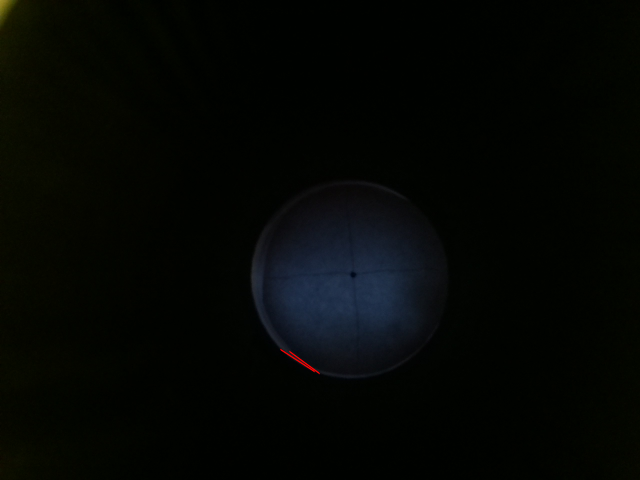
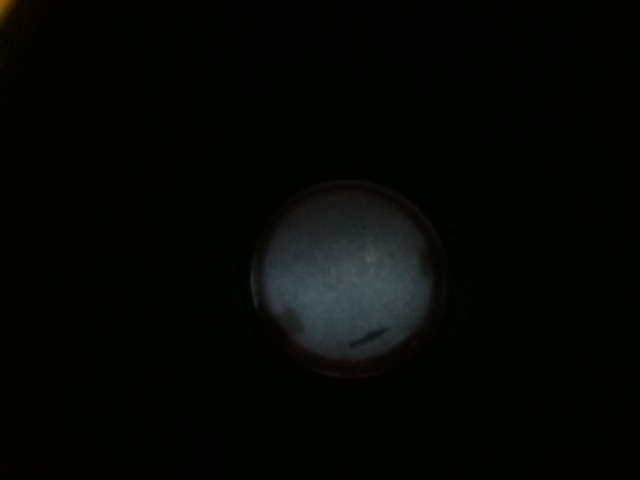
Fixed lighting and took images and reduced the crop size to 85

Changed region(s): [[0.375, 0.5, 0.6875, 0.75], [0.0, 0.0, 0.0312, 0.0625], [0.4688, 0.75, 0.5, 0.7812]]

diff --git a/src/simple_sub_node.cpp b/src/simple_sub_node.cpp
@@ -47,10 +47,18 @@ class ImageConverter {
         // cv::waitKey(1);
 
         cv::Mat img = cv_ptr->image;
-        cv::Mat needle_detect_ = img.clone();
+        cv::Mat roi;   // Matrix to save image
+                       // creating empty mask image
+        cv::Mat mask = cv::Mat::zeros(img.rows, img.cols, CV_8UC1);
+        cv::circle(mask, cv::Point(354, 275), 85, cvScalar(255, 255, 255), -1,
+                   8,
+                   0);           //-1 means filled
+        img.copyTo(roi, mask);   // copy values of img to dst if mask is > 0
+        cv::imshow("roi", roi);
 
+        cv::Mat needle_detect_ = img.clone();
         cv::Mat edge, needle, edge_image;
-        cv::Canny(img, edge, 50, 100, 3);
+        cv::Canny(roi, edge, 50, 140, 3);
         edge.convertTo(edge_image, CV_8U);
 
         std::vector<cv::Vec4i> lines;
@@ -58,11 +66,30 @@ class ImageConverter {
         std::cout << "the number of lines are " << lines.size() << std::endl;
         for (size_t i = 0; i < lines.size(); i++) {
             cv::Vec4i l = lines[i];
-            line(needle_detect_, cv::Point(l[0], l[1]), cv::Point(l[2], l[3]),
-                 cvScalar(0, 0, 255), 1, CV_AA);
+            //	    line(needle_detect_, cv::Point(l[0], l[1]), cv::Point(l[2],
+            // l[3]),
+            //		 cvScalar(0, 0, 255), 1, CV_AA);
+
+            double leng =
+                cv::norm(cv::Point(l[0], l[1]) - cv::Point(l[2], l[3]));
+
+            if (leng < 40 && leng > 30) {
+                line(needle_detect_, cv::Point(l[0], l[1]),
+                     cv::Point(l[2], l[3]), cvScalar(0, 0, 255), 1, CV_AA);
+                std::cout << " length of line number: " << i << " is : " << leng
+                          << std::endl;
+                // line(needle_detect_, cv::Point(l[0], l[1]), cv::Point(l[2],
+                // l[3]),
+                //   cvScalar(255, 255, 255), 2, CV_AA);
+
+                std::cout << "the coordinates of the lines are: "
+                          << cv::Point(l[0], l[1]) << " and "
+                          << cv::Point(l[2], l[3]) << std::endl;
+            };
         }
         cv::imshow("edge", edge);
-        cv::imshow("needle", needle_detect_);
+        // cv::imshow("needle", needle_detect_);
+
         cv::waitKey(1);
     }
 };

diff --git a/NeedleDetection/needle_polygon.cpp b/NeedleDetection/needle_polygon.cpp
@@ -10,15 +10,20 @@ int main() {
     cv::Mat needle_detect_ = img.clone();
 
     cv::Mat roi;   // Matrix to save image
-                   // creating empty mask image
-    cv::Mat mask = cv::Mat::zeros(img.rows, img.cols, CV_8UC1);
-    cv::circle(mask, cv::Point(354, 275), 100, cvScalar(255, 255, 255), -1, 8,
-               0);           //-1 means filled
-    img.copyTo(roi, mask);   // copy values of img to dst if mask is > 0
+    // creating empty mask image
+    cv::Mat mask = cv::Mat::zeros(img.size(), img.type());
+    // determining polygon vertices for roi
+    cv::Point pts[7] = {cv::Point(288, 200), cv::Point(355, 176),
+                        cv::Point(423, 205), cv::Point(442, 325),
+                        cv::Point(352, 375), cv::Point(275, 337),
+                        cv::Point(252, 337)};
+    // Create a binary polygon mask
+    cv::fillConvexPoly(mask, pts, 7, cv::Scalar(255, 255, 255));
+    // Multiply the edges image and the mask to get the output
+    cv::bitwise_and(img, mask, roi);
     cv::imshow("roi", roi);
-
     cv::Mat edge, needle, edge_image;
-    cv::Canny(roi, edge, 50, 60, 3);
+    cv::Canny(roi, edge, 50, 140, 3);
     edge.convertTo(edge_image, CV_8U);
     // Draw an example circle on the video stream
     cv::circle(needle_detect_, cv::Point(354, 275), 100, CV_RGB(255, 0, 0));
